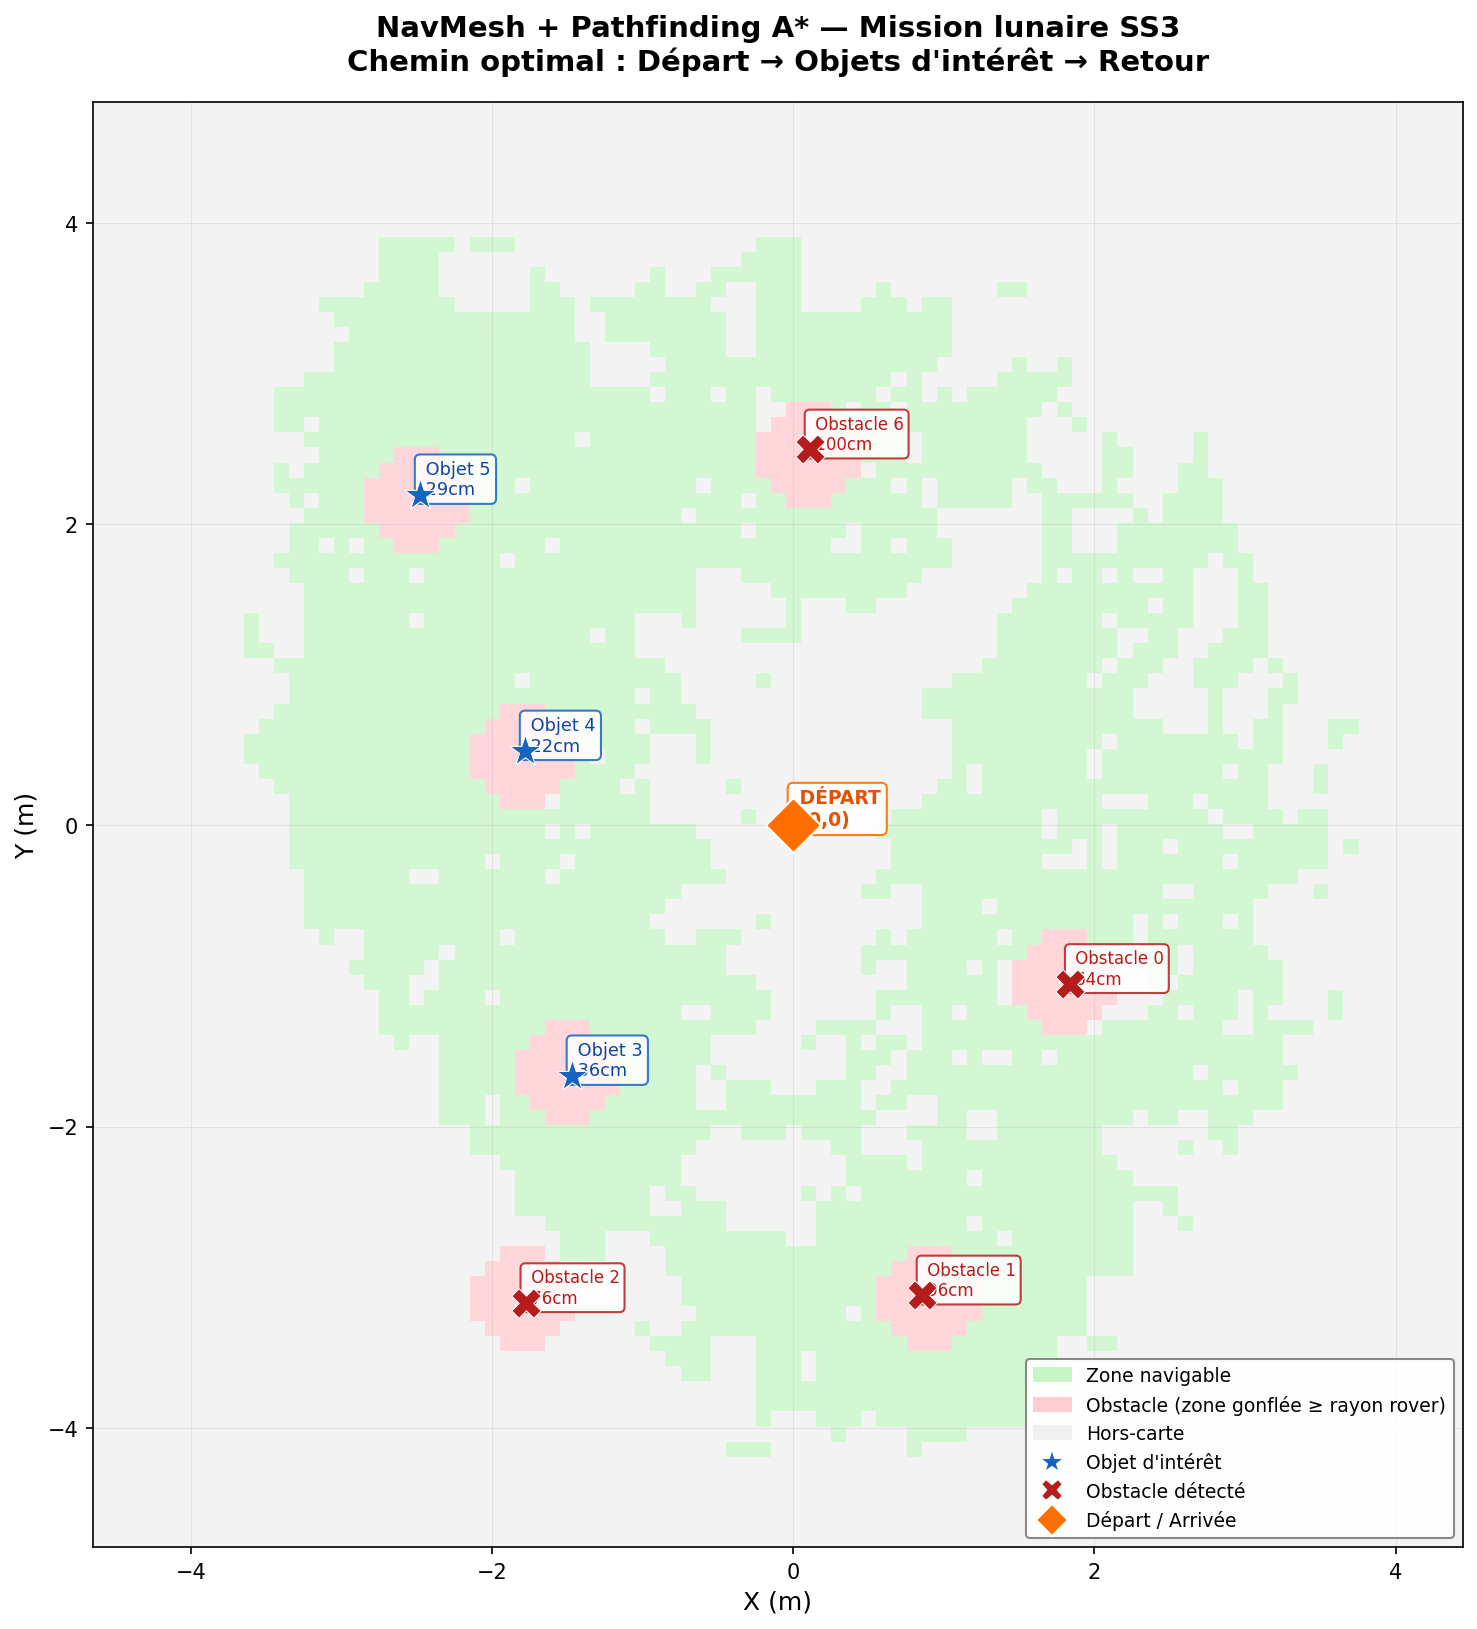
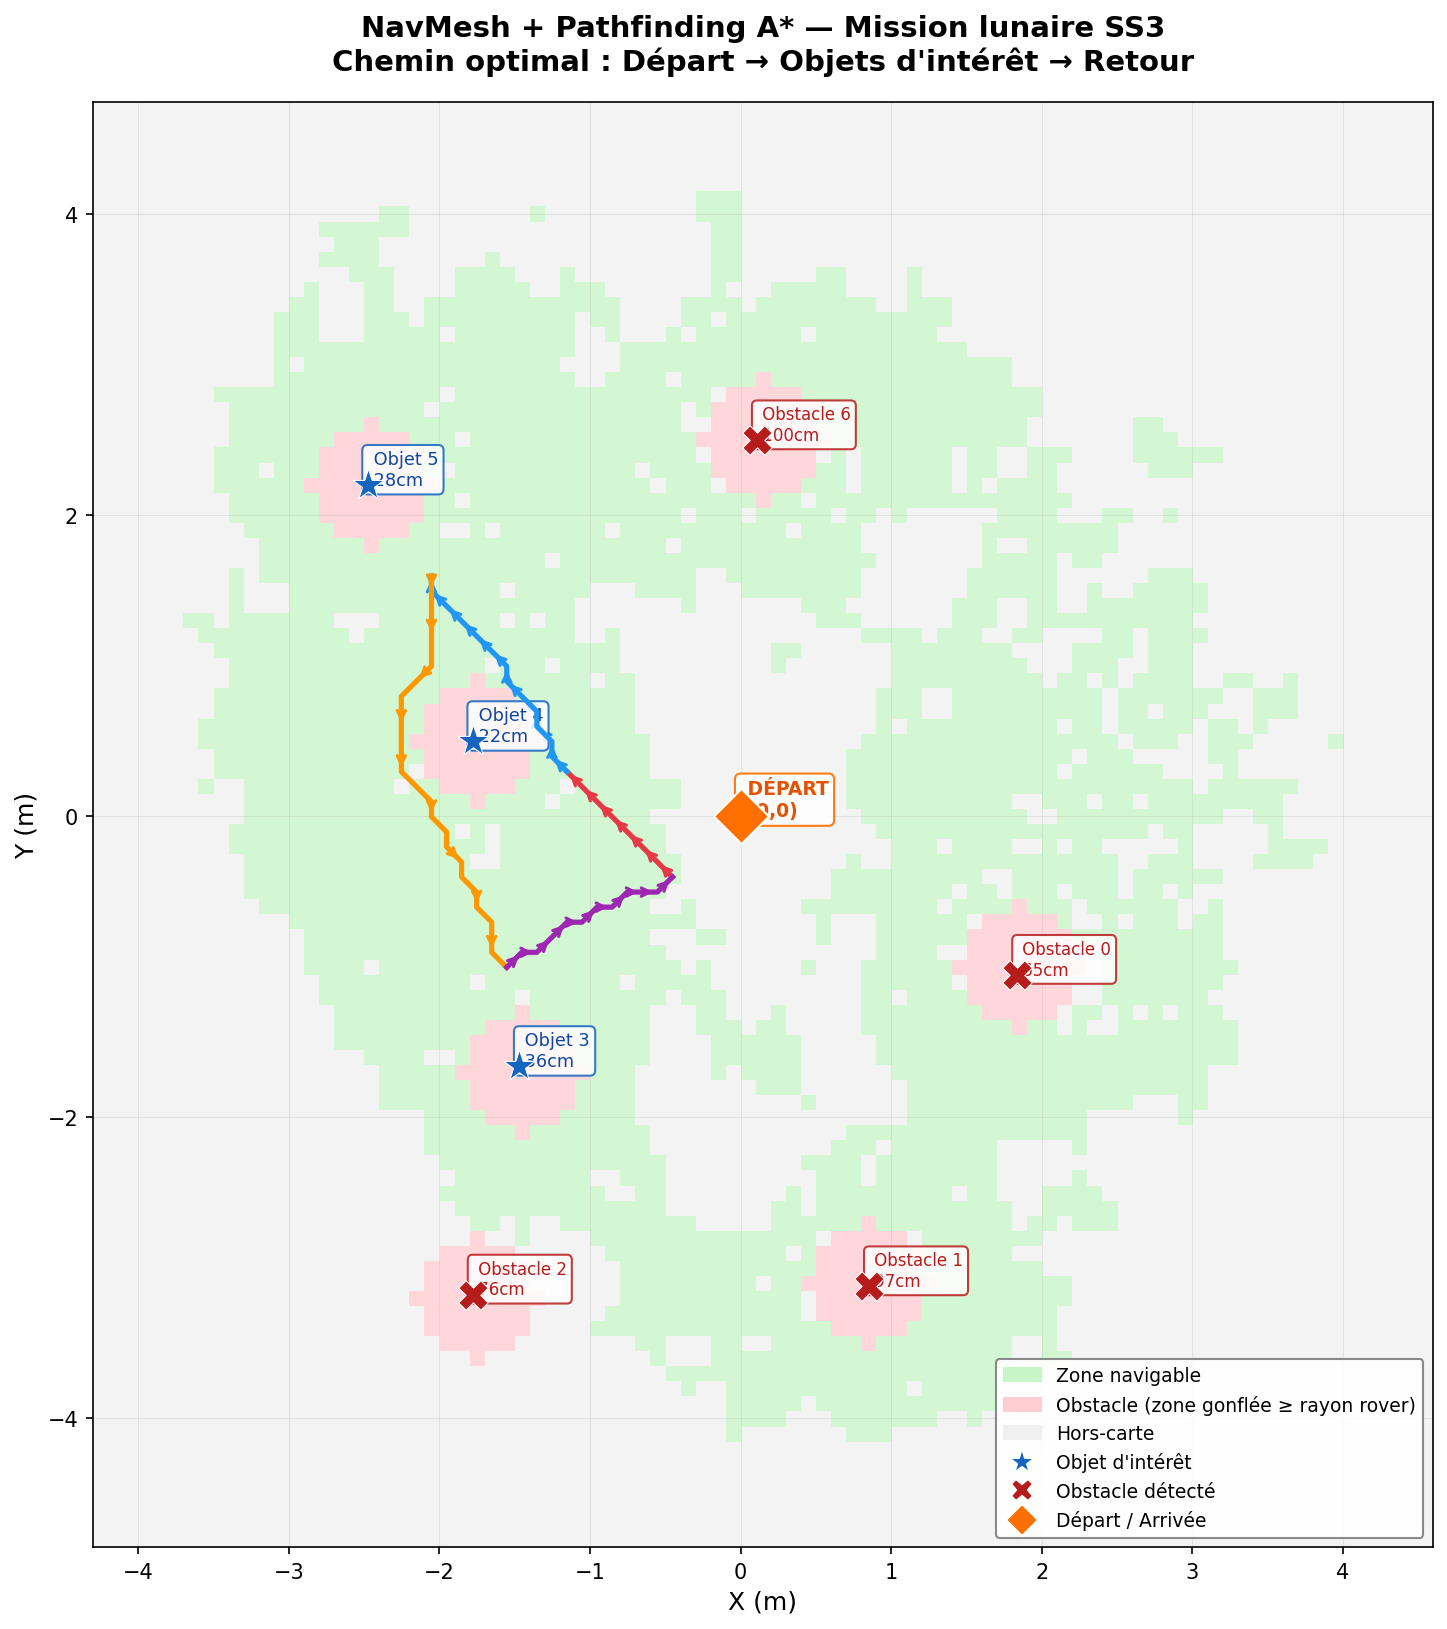
Modifs aux valeurs de config

diff --git a/config.py b/config.py
@@ -7,8 +7,8 @@ DBSCAN_EPS           = 0.25   # Distance max entre deux points du même cluster
 DBSCAN_MIN_SAMPLES   = 8      # Nombre minimum de points pour former un cluster
 
 # --- FILTRATION ---
-FILTRE_HAUTEUR_MIN   = 0.05   # 5cm  — en dessous = bruit, ignoré
-FILTRE_HAUTEUR_MAX   = 0.50   # 50cm — en dessous = objet d'intérêt, au dessus = obstacle
+FILTRE_HAUTEUR_MIN   = 0.045   # 5cm  — en dessous = bruit, ignoré
+FILTRE_HAUTEUR_MAX   = 0.505   # 50cm — en dessous = objet d'intérêt, au dessus = obstacle
 FILTRE_DISTANCE_MAX  = 8.0    # 8m   — ton nuage va jusqu'à ~7m en diagonale, 5m était trop petit
 
 # --- TRIANGULATION ---
@@ -20,9 +20,9 @@ TRIANG_OUTLIER_DIST_MAX  = 0.2   # si le voisin le plus proche est à plus de 20
 
 # --- A* PATHFINDING ---
 ASTAR_RESOLUTION     = 0.10   # Taille cellule grille (m) — descendre = plus précis mais plus lent
-ASTAR_RAYON_ROVER    = 0.20   # Rayon du rover (m) — À AJUSTER selon specs réelles
-ASTAR_RAYON_INFLATION= 0.35   # Doit toujours être >= ASTAR_RAYON_ROVER
-ASTAR_SCAN_DISTANCE  = 0.50   # Distance à laquelle le rover s'arrête pour scanner (m)
+ASTAR_RAYON_ROVER    = 0.25   # Rayon du rover (m) — À AJUSTER selon specs réelles
+ASTAR_RAYON_INFLATION= 0.40   # Doit toujours être >= ASTAR_RAYON_ROVER
+ASTAR_SCAN_DISTANCE  = 0.70   # Distance à laquelle le rover s'arrête pour scanner (m)
 ASTAR_Z_SOL          = 3.10   # Hauteur Z du sol (m) — pour filtrer les points hors-sol
 
 # --- FICHIERS ---